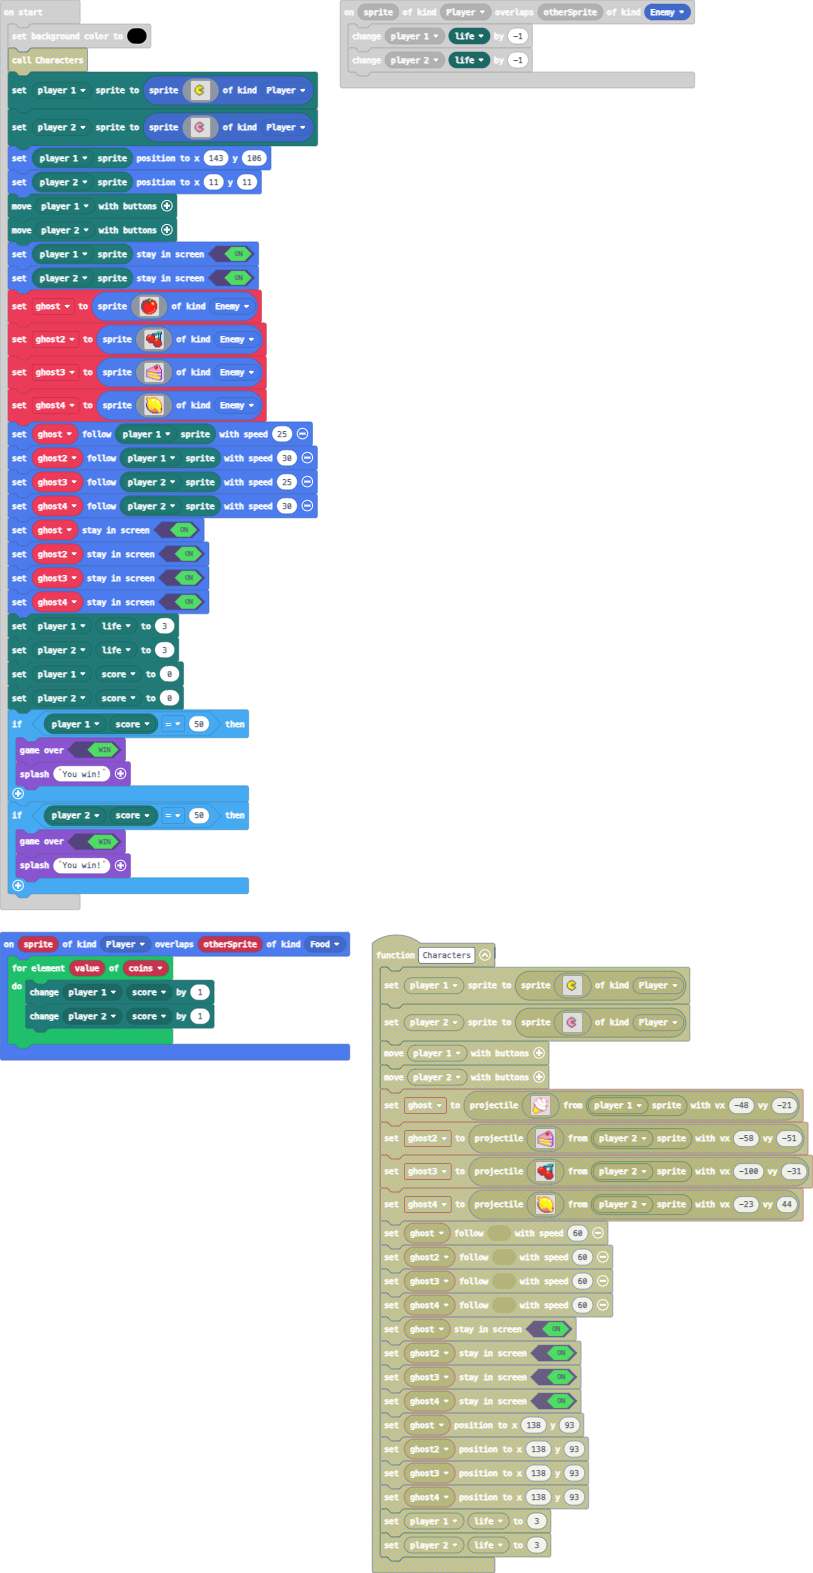
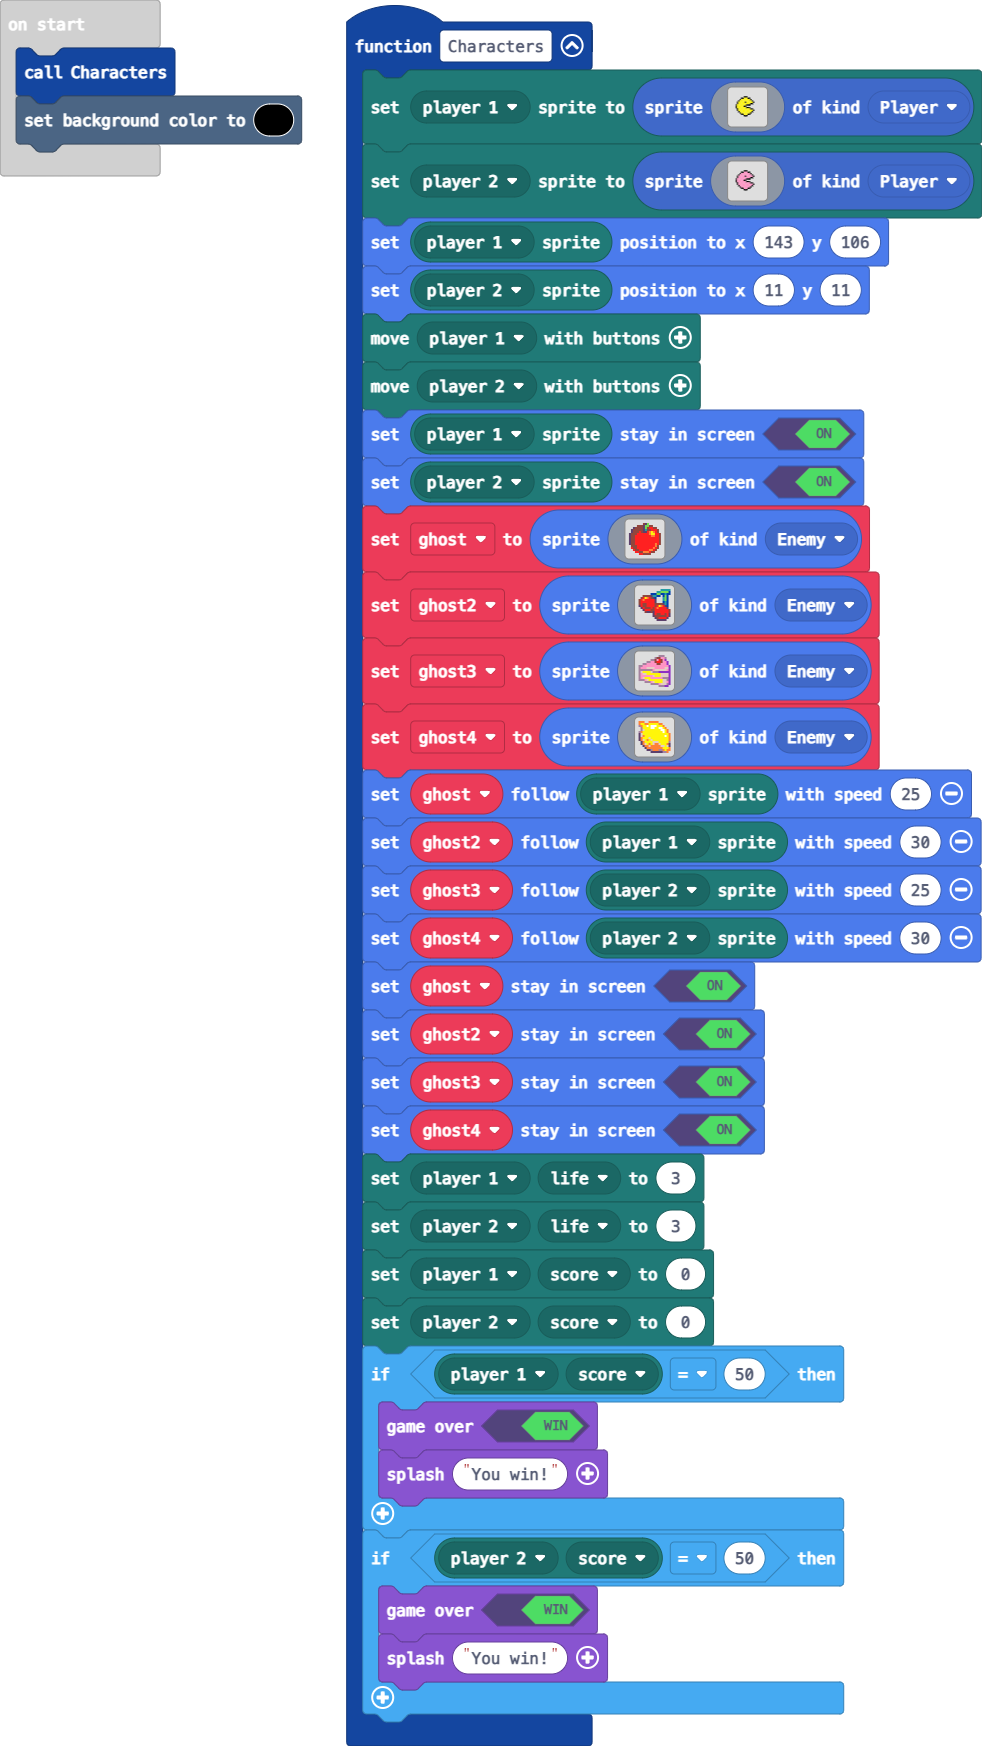
Update pxt.json, main.blocks, main.ts

diff --git a/main.ts b/main.ts
@@ -1,3 +1,155 @@
+function Characters () {
+    mp.setPlayerSprite(mp.playerSelector(mp.PlayerNumber.One), sprites.create(img`
+        ........................
+        ........................
+        ........................
+        ........................
+        .........fff............
+        .......ff555ff..........
+        ......f5555555f.........
+        .....f555555555f........
+        ....f55555f55555f.......
+        ....f555555555ff........
+        ...f5555555fff..........
+        ...f55555ff.............
+        ...f5555555fff..........
+        ....f555555555ff........
+        ....f55555555555f.......
+        .....f555555555f........
+        ......f5555555f.........
+        .......ff555ff..........
+        .........fff............
+        ........................
+        ........................
+        ........................
+        ........................
+        ........................
+        `, SpriteKind.Player))
+    mp.setPlayerSprite(mp.playerSelector(mp.PlayerNumber.Two), sprites.create(img`
+        ........................
+        ........................
+        ........................
+        ........................
+        .........fff............
+        .......ff333ff..........
+        ......f3333333f.........
+        .....f333333333f........
+        ....f33333f33333f.......
+        ....f333333333ff........
+        ...f3333333fff..........
+        ...f33333ff.............
+        ...f3333333fff..........
+        ....f333333333ff........
+        ....f33333333333f.......
+        .....f333333333f........
+        ......f3333333f.........
+        .......ff333ff..........
+        .........fff............
+        ........................
+        ........................
+        ........................
+        ........................
+        ........................
+        `, SpriteKind.Player))
+    mp.getPlayerSprite(mp.playerSelector(mp.PlayerNumber.One)).setPosition(143, 106)
+    mp.getPlayerSprite(mp.playerSelector(mp.PlayerNumber.Two)).setPosition(11, 11)
+    mp.moveWithButtons(mp.playerSelector(mp.PlayerNumber.One))
+    mp.moveWithButtons(mp.playerSelector(mp.PlayerNumber.Two))
+    mp.getPlayerSprite(mp.playerSelector(mp.PlayerNumber.One)).setStayInScreen(true)
+    mp.getPlayerSprite(mp.playerSelector(mp.PlayerNumber.Two)).setStayInScreen(true)
+    ghost = sprites.create(img`
+        . . . . . . . e c 7 . . . . . . 
+        . . . . e e e c 7 7 e e . . . . 
+        . . c e e e e c 7 e 2 2 e e . . 
+        . c e e e e e c 6 e e 2 2 2 e . 
+        . c e e e 2 e c c 2 4 5 4 2 e . 
+        c e e e 2 2 2 2 2 2 4 5 5 2 2 e 
+        c e e 2 2 2 2 2 2 2 2 4 4 2 2 e 
+        c e e 2 2 2 2 2 2 2 2 2 2 2 2 e 
+        c e e 2 2 2 2 2 2 2 2 2 2 2 2 e 
+        c e e 2 2 2 2 2 2 2 2 2 2 2 2 e 
+        c e e 2 2 2 2 2 2 2 2 2 2 4 2 e 
+        . e e e 2 2 2 2 2 2 2 2 2 4 e . 
+        . 2 e e 2 2 2 2 2 2 2 2 4 2 e . 
+        . . 2 e e 2 2 2 2 2 4 4 2 e . . 
+        . . . 2 2 e e 4 4 4 2 e e . . . 
+        . . . . . 2 2 e e e e . . . . . 
+        `, SpriteKind.Enemy)
+    ghost2 = sprites.create(img`
+        . . . . . . . . . . . 6 6 6 6 6 
+        . . . . . . . . . 6 6 7 7 7 7 8 
+        . . . . . . 8 8 8 7 7 8 8 6 8 8 
+        . . e e e e c 6 6 8 8 . 8 7 8 . 
+        . e 2 5 4 2 e c 8 . . . 6 7 8 . 
+        e 2 4 2 2 2 2 2 c . . . 6 7 8 . 
+        e 2 2 2 2 2 2 2 c . . . 8 6 8 . 
+        e 2 e e 2 2 2 2 e e e e c 6 8 . 
+        c 2 e e 2 2 2 2 e 2 5 4 2 c 8 . 
+        . c 2 e e e 2 e 2 4 2 2 2 2 c . 
+        . . c 2 2 2 e e 2 2 2 2 2 2 2 e 
+        . . . e c c e c 2 2 2 2 2 2 2 e 
+        . . . . . . . c 2 e e 2 2 e 2 c 
+        . . . . . . . c e e e e e e 2 c 
+        . . . . . . . . c e 2 2 2 2 c . 
+        . . . . . . . . . c c c c c . . 
+        `, SpriteKind.Enemy)
+    ghost3 = sprites.create(img`
+        . . . . . . . . . . b b b . . . 
+        . . . . . . . . b e e 3 3 b . . 
+        . . . . . . b b e 3 2 e 3 a . . 
+        . . . . b b 3 3 e 2 2 e 3 3 a . 
+        . . b b 3 3 3 3 3 e e 3 3 3 a . 
+        b b 3 3 3 3 3 3 3 3 3 3 3 3 3 a 
+        b 3 3 3 d d d d 3 3 3 3 3 d d a 
+        b b b b b b b 3 d d d d d d 3 a 
+        b d 5 5 5 5 d b b b a a a a a a 
+        b 3 d d 5 5 5 5 5 5 5 d d d d a 
+        b 3 3 3 3 3 3 d 5 5 5 d d d d a 
+        b 3 d 5 5 5 3 3 3 3 3 3 b b b a 
+        b b b 3 d 5 5 5 5 5 5 5 d d b a 
+        . . . b b b 3 d 5 5 5 5 d d 3 a 
+        . . . . . . b b b b 3 d d d b a 
+        . . . . . . . . . . b b b a a . 
+        `, SpriteKind.Enemy)
+    ghost4 = sprites.create(img`
+        4 4 4 . . 4 4 4 4 4 . . . . . . 
+        4 5 5 4 4 5 5 5 5 5 4 4 . . . . 
+        b 4 5 5 1 5 1 1 1 5 5 5 4 . . . 
+        . b 5 5 5 5 1 1 5 5 1 1 5 4 . . 
+        . b d 5 5 5 5 5 5 5 5 1 1 5 4 . 
+        b 4 5 5 5 5 5 5 5 5 5 5 1 5 4 . 
+        c d 5 5 5 5 5 5 5 5 5 5 5 5 5 4 
+        c d 4 5 5 5 5 5 5 5 5 5 5 1 5 4 
+        c 4 5 5 5 d 5 5 5 5 5 5 5 5 5 4 
+        c 4 d 5 4 5 d 5 5 5 5 5 5 5 5 4 
+        . c 4 5 5 5 5 d d d 5 5 5 5 5 b 
+        . c 4 d 5 4 5 d 4 4 d 5 5 5 4 c 
+        . . c 4 4 d 4 4 4 4 4 d d 5 d c 
+        . . . c 4 4 4 4 4 4 4 4 5 5 5 4 
+        . . . . c c b 4 4 4 b b 4 5 4 4 
+        . . . . . . c c c c c c b b 4 . 
+        `, SpriteKind.Enemy)
+    ghost.follow(mp.getPlayerSprite(mp.playerSelector(mp.PlayerNumber.One)), 25)
+    ghost2.follow(mp.getPlayerSprite(mp.playerSelector(mp.PlayerNumber.One)), 30)
+    ghost3.follow(mp.getPlayerSprite(mp.playerSelector(mp.PlayerNumber.Two)), 25)
+    ghost4.follow(mp.getPlayerSprite(mp.playerSelector(mp.PlayerNumber.Two)), 30)
+    ghost.setStayInScreen(true)
+    ghost2.setStayInScreen(true)
+    ghost3.setStayInScreen(true)
+    ghost4.setStayInScreen(true)
+    mp.setPlayerState(mp.playerSelector(mp.PlayerNumber.One), MultiplayerState.life, 3)
+    mp.setPlayerState(mp.playerSelector(mp.PlayerNumber.Two), MultiplayerState.life, 3)
+    mp.setPlayerState(mp.playerSelector(mp.PlayerNumber.One), MultiplayerState.score, 0)
+    mp.setPlayerState(mp.playerSelector(mp.PlayerNumber.Two), MultiplayerState.score, 0)
+    if (mp.getPlayerState(mp.playerSelector(mp.PlayerNumber.One), MultiplayerState.score) == 50) {
+        game.gameOver(true)
+        game.splash("You win!")
+    }
+    if (mp.getPlayerState(mp.playerSelector(mp.PlayerNumber.Two), MultiplayerState.score) == 50) {
+        game.gameOver(true)
+        game.splash("You win!")
+    }
+}
 sprites.onOverlap(SpriteKind.Player, SpriteKind.Food, function (sprite, otherSprite) {
     let coins: number[] = []
     for (let value of coins) {
@@ -13,154 +165,9 @@ sprites.onOverlap(SpriteKind.Player, SpriteKind.Enemy, function (sprite, otherSp
     mp.changePlayerStateBy(mp.playerSelector(mp.PlayerNumber.One), MultiplayerState.life, -1)
     mp.changePlayerStateBy(mp.playerSelector(mp.PlayerNumber.Two), MultiplayerState.life, -1)
 })
+let ghost4: Sprite = null
+let ghost3: Sprite = null
+let ghost2: Sprite = null
+let ghost: Sprite = null
+Characters()
 scene.setBackgroundColor(15)
-mp.setPlayerSprite(mp.playerSelector(mp.PlayerNumber.One), sprites.create(img`
-    ........................
-    ........................
-    ........................
-    ........................
-    .........fff............
-    .......ff555ff..........
-    ......f5555555f.........
-    .....f555555555f........
-    ....f55555f55555f.......
-    ....f555555555ff........
-    ...f5555555fff..........
-    ...f55555ff.............
-    ...f5555555fff..........
-    ....f555555555ff........
-    ....f55555555555f.......
-    .....f555555555f........
-    ......f5555555f.........
-    .......ff555ff..........
-    .........fff............
-    ........................
-    ........................
-    ........................
-    ........................
-    ........................
-    `, SpriteKind.Player))
-mp.setPlayerSprite(mp.playerSelector(mp.PlayerNumber.Two), sprites.create(img`
-    ........................
-    ........................
-    ........................
-    ........................
-    .........fff............
-    .......ff333ff..........
-    ......f3333333f.........
-    .....f333333333f........
-    ....f33333f33333f.......
-    ....f333333333ff........
-    ...f3333333fff..........
-    ...f33333ff.............
-    ...f3333333fff..........
-    ....f333333333ff........
-    ....f33333333333f.......
-    .....f333333333f........
-    ......f3333333f.........
-    .......ff333ff..........
-    .........fff............
-    ........................
-    ........................
-    ........................
-    ........................
-    ........................
-    `, SpriteKind.Player))
-mp.getPlayerSprite(mp.playerSelector(mp.PlayerNumber.One)).setPosition(143, 106)
-mp.getPlayerSprite(mp.playerSelector(mp.PlayerNumber.Two)).setPosition(11, 11)
-mp.moveWithButtons(mp.playerSelector(mp.PlayerNumber.One))
-mp.moveWithButtons(mp.playerSelector(mp.PlayerNumber.Two))
-mp.getPlayerSprite(mp.playerSelector(mp.PlayerNumber.One)).setStayInScreen(true)
-mp.getPlayerSprite(mp.playerSelector(mp.PlayerNumber.Two)).setStayInScreen(true)
-let ghost = sprites.create(img`
-    . . . . . . . e c 7 . . . . . . 
-    . . . . e e e c 7 7 e e . . . . 
-    . . c e e e e c 7 e 2 2 e e . . 
-    . c e e e e e c 6 e e 2 2 2 e . 
-    . c e e e 2 e c c 2 4 5 4 2 e . 
-    c e e e 2 2 2 2 2 2 4 5 5 2 2 e 
-    c e e 2 2 2 2 2 2 2 2 4 4 2 2 e 
-    c e e 2 2 2 2 2 2 2 2 2 2 2 2 e 
-    c e e 2 2 2 2 2 2 2 2 2 2 2 2 e 
-    c e e 2 2 2 2 2 2 2 2 2 2 2 2 e 
-    c e e 2 2 2 2 2 2 2 2 2 2 4 2 e 
-    . e e e 2 2 2 2 2 2 2 2 2 4 e . 
-    . 2 e e 2 2 2 2 2 2 2 2 4 2 e . 
-    . . 2 e e 2 2 2 2 2 4 4 2 e . . 
-    . . . 2 2 e e 4 4 4 2 e e . . . 
-    . . . . . 2 2 e e e e . . . . . 
-    `, SpriteKind.Enemy)
-let ghost2 = sprites.create(img`
-    . . . . . . . . . . . 6 6 6 6 6 
-    . . . . . . . . . 6 6 7 7 7 7 8 
-    . . . . . . 8 8 8 7 7 8 8 6 8 8 
-    . . e e e e c 6 6 8 8 . 8 7 8 . 
-    . e 2 5 4 2 e c 8 . . . 6 7 8 . 
-    e 2 4 2 2 2 2 2 c . . . 6 7 8 . 
-    e 2 2 2 2 2 2 2 c . . . 8 6 8 . 
-    e 2 e e 2 2 2 2 e e e e c 6 8 . 
-    c 2 e e 2 2 2 2 e 2 5 4 2 c 8 . 
-    . c 2 e e e 2 e 2 4 2 2 2 2 c . 
-    . . c 2 2 2 e e 2 2 2 2 2 2 2 e 
-    . . . e c c e c 2 2 2 2 2 2 2 e 
-    . . . . . . . c 2 e e 2 2 e 2 c 
-    . . . . . . . c e e e e e e 2 c 
-    . . . . . . . . c e 2 2 2 2 c . 
-    . . . . . . . . . c c c c c . . 
-    `, SpriteKind.Enemy)
-let ghost3 = sprites.create(img`
-    . . . . . . . . . . b b b . . . 
-    . . . . . . . . b e e 3 3 b . . 
-    . . . . . . b b e 3 2 e 3 a . . 
-    . . . . b b 3 3 e 2 2 e 3 3 a . 
-    . . b b 3 3 3 3 3 e e 3 3 3 a . 
-    b b 3 3 3 3 3 3 3 3 3 3 3 3 3 a 
-    b 3 3 3 d d d d 3 3 3 3 3 d d a 
-    b b b b b b b 3 d d d d d d 3 a 
-    b d 5 5 5 5 d b b b a a a a a a 
-    b 3 d d 5 5 5 5 5 5 5 d d d d a 
-    b 3 3 3 3 3 3 d 5 5 5 d d d d a 
-    b 3 d 5 5 5 3 3 3 3 3 3 b b b a 
-    b b b 3 d 5 5 5 5 5 5 5 d d b a 
-    . . . b b b 3 d 5 5 5 5 d d 3 a 
-    . . . . . . b b b b 3 d d d b a 
-    . . . . . . . . . . b b b a a . 
-    `, SpriteKind.Enemy)
-let ghost4 = sprites.create(img`
-    4 4 4 . . 4 4 4 4 4 . . . . . . 
-    4 5 5 4 4 5 5 5 5 5 4 4 . . . . 
-    b 4 5 5 1 5 1 1 1 5 5 5 4 . . . 
-    . b 5 5 5 5 1 1 5 5 1 1 5 4 . . 
-    . b d 5 5 5 5 5 5 5 5 1 1 5 4 . 
-    b 4 5 5 5 5 5 5 5 5 5 5 1 5 4 . 
-    c d 5 5 5 5 5 5 5 5 5 5 5 5 5 4 
-    c d 4 5 5 5 5 5 5 5 5 5 5 1 5 4 
-    c 4 5 5 5 d 5 5 5 5 5 5 5 5 5 4 
-    c 4 d 5 4 5 d 5 5 5 5 5 5 5 5 4 
-    . c 4 5 5 5 5 d d d 5 5 5 5 5 b 
-    . c 4 d 5 4 5 d 4 4 d 5 5 5 4 c 
-    . . c 4 4 d 4 4 4 4 4 d d 5 d c 
-    . . . c 4 4 4 4 4 4 4 4 5 5 5 4 
-    . . . . c c b 4 4 4 b b 4 5 4 4 
-    . . . . . . c c c c c c b b 4 . 
-    `, SpriteKind.Enemy)
-ghost.follow(mp.getPlayerSprite(mp.playerSelector(mp.PlayerNumber.One)), 25)
-ghost2.follow(mp.getPlayerSprite(mp.playerSelector(mp.PlayerNumber.One)), 30)
-ghost3.follow(mp.getPlayerSprite(mp.playerSelector(mp.PlayerNumber.Two)), 25)
-ghost4.follow(mp.getPlayerSprite(mp.playerSelector(mp.PlayerNumber.Two)), 30)
-ghost.setStayInScreen(true)
-ghost2.setStayInScreen(true)
-ghost3.setStayInScreen(true)
-ghost4.setStayInScreen(true)
-mp.setPlayerState(mp.playerSelector(mp.PlayerNumber.One), MultiplayerState.life, 3)
-mp.setPlayerState(mp.playerSelector(mp.PlayerNumber.Two), MultiplayerState.life, 3)
-mp.setPlayerState(mp.playerSelector(mp.PlayerNumber.One), MultiplayerState.score, 0)
-mp.setPlayerState(mp.playerSelector(mp.PlayerNumber.Two), MultiplayerState.score, 0)
-if (mp.getPlayerState(mp.playerSelector(mp.PlayerNumber.One), MultiplayerState.score) == 50) {
-    game.gameOver(true)
-    game.splash("You win!")
-}
-if (mp.getPlayerState(mp.playerSelector(mp.PlayerNumber.Two), MultiplayerState.score) == 50) {
-    game.gameOver(true)
-    game.splash("You win!")
-}
